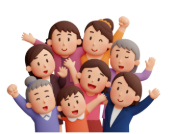
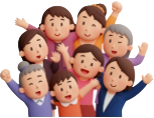
fix : 수양회 관련 정보 수정

diff --git a/components/form/Step3Companions.tsx b/components/form/Step3Companions.tsx
@@ -154,27 +154,39 @@ function CompanionCard({
       )}
 
       {/* 숙박 여부 */}
-      <FieldGroup
-        label="숙박 여부"
-        hint={isLodgingFixed ? '해당 부서는 숙박이 기본 포함됩니다.' : undefined}
-      >
-        {isLodgingFixed ? (
-          <div className="form-input bg-slate-50 text-slate-500 text-sm">
-            숙박 (기본 고정)
+      <FieldGroup label="숙박 여부">
+        {isLodgingFixed && (
+          <div className="mb-2 rounded-lg border border-red-200 bg-red-50 px-3 py-2 text-sm font-medium text-red-600">
+            해당 부서는 숙박이 기본 포함됩니다.
           </div>
-        ) : (
-          <ToggleGroup
-            cols={2}
-            value={companion.lodging}
-            onChange={(v) => update('lodging', v)}
-            options={[
-              { label: '비숙박', value: 'NON_LODGING', description: '당일 귀가' },
-              { label: '숙박', value: 'LODGING', description: '1박 2일' },
-            ]}
-            disabled={companion.registrationType === 'DAILY'}
-          />
         )}
+        <ToggleGroup
+          cols={2}
+          value={companion.lodging}
+          onChange={(v) => update('lodging', v)}
+          options={[
+            { label: '비숙박', value: 'NON_LODGING', description: '당일 귀가' },
+            { label: '숙박', value: 'LODGING', description: '1박 2일' },
+          ]}
+          disabled={companion.registrationType === 'DAILY'}
+        />
       </FieldGroup>
+
+      {/* UCM 2007년생 이하 체크 */}
+      {dept === 'ADULT_B' && companion.department === '대학부(UCM)' && (
+        <label className="flex items-start gap-3 rounded-xl border border-amber-200 bg-amber-50 px-4 py-3 cursor-pointer">
+          <input
+            type="checkbox"
+            className="mt-0.5 h-4 w-4 accent-amber-500 shrink-0"
+            checked={!!companion.isYoungUCM}
+            onChange={(e) => update('isYoungUCM', e.target.checked)}
+          />
+          <div>
+            <p className="text-sm font-semibold text-amber-800">2007년생 이하입니다</p>
+            <p className="text-xs text-amber-600 mt-0.5">체크 시 다자녀 할인 자녀 인원에 포함됩니다</p>
+          </div>
+        </label>
+      )}
     </div>
   );
 }
@@ -287,9 +299,12 @@ export default function Step3Companions({
         <InfoBox type="info">
           <p className="font-semibold">다자녀 할인 안내</p>
           <ul className="mt-1 flex flex-col gap-1 text-sm">
-            <li>① YCM 이하 자녀(중고등·초등·유치·영아) <strong>3명 이상</strong> → 부모+자녀 전원 <strong>10% 할인</strong></li>
-            <li>② YCM 이하 자녀(중고등·초등·유치·영아) <strong>4명 이상</strong> → 부모+자녀 전원 <strong>15% 할인</strong></li>
+            <li>① 자녀 <strong>3명 이상</strong> → 부모+자녀 전원 <strong>10% 할인</strong></li>
+            <li>② 자녀 <strong>4명 이상</strong> → 부모+자녀 전원 <strong>15% 할인</strong></li>
           </ul>
+          <p className="mt-2 text-xs text-blue-500">
+            * 자녀 기준: YCM(중고등)·초등·유치·영아부, UCM 중 <strong>2007년생 이하</strong>
+          </p>
         </InfoBox>
       )}
 

diff --git a/components/form/Step2Info.tsx b/components/form/Step2Info.tsx
@@ -233,33 +233,43 @@ export default function Step2Info({
       )}
 
       {/* 숙박 여부 */}
-      <FieldGroup
-        label="숙박 여부"
-        hint={
-          isLodgingFixed ? "해당 부서는 숙박이 기본 포함됩니다." : undefined
-        }
-      >
-        {isLodgingFixed ? (
-          <div className="form-input bg-slate-50 text-slate-500 text-sm">
-            숙박 (기본 고정)
+      <FieldGroup label="숙박 여부">
+        {isLodgingFixed && (
+          <div className="mb-2 rounded-lg border border-red-200 bg-red-50 px-3 py-2 text-sm font-medium text-red-600">
+            해당 부서는 숙박이 기본 포함됩니다.
           </div>
-        ) : (
-          <ToggleGroup
-            cols={2}
-            value={value.lodging}
-            onChange={(v) => update("lodging", v)}
-            options={[
-              {
-                label: "비숙박",
-                value: "NON_LODGING",
-                description: "당일 귀가",
-              },
-              { label: "숙박", value: "LODGING", description: "1박 2일" },
-            ]}
-            disabled={value.registrationType === "DAILY"}
-          />
         )}
+        <ToggleGroup
+          cols={2}
+          value={value.lodging}
+          onChange={(v) => update("lodging", v)}
+          options={[
+            {
+              label: "비숙박",
+              value: "NON_LODGING",
+              description: "당일 귀가",
+            },
+            { label: "숙박", value: "LODGING", description: "1박 2일" },
+          ]}
+          disabled={value.registrationType === "DAILY"}
+        />
       </FieldGroup>
+
+      {/* UCM 2007년생 이하 체크 */}
+      {dept === 'ADULT_B' && value.department === '대학부(UCM)' && (
+        <label className="flex items-start gap-3 rounded-xl border border-amber-200 bg-amber-50 px-4 py-3 cursor-pointer">
+          <input
+            type="checkbox"
+            className="mt-0.5 h-4 w-4 accent-amber-500 shrink-0"
+            checked={!!value.isYoungUCM}
+            onChange={(e) => update('isYoungUCM', e.target.checked)}
+          />
+          <div>
+            <p className="text-sm font-semibold text-amber-800">2007년생 이하입니다</p>
+            <p className="text-xs text-amber-600 mt-0.5">체크 시 단체 신청 시 다자녀 할인 자녀 인원에 포함됩니다</p>
+          </div>
+        </label>
+      )}
 
       {/* 비숙박 할인 안내 */}
       {isNonLodgingDiscountEligible && value.registrationType !== "DAILY" && (

diff --git a/app/api/submit/route.ts b/app/api/submit/route.ts
@@ -35,6 +35,9 @@ function toRows(formState: FormState): string[][] {
     rep.wantsFamilyRoom ? '희망' : '',                // L 가족실
     String(repItem?.subtotal ?? 0),                   // M 금액
     groupId,                                          // N 그룹ID
+    '',                                               // O 확정 (Apps Script 관리)
+    '',                                               // P 입금확인 (Apps Script 관리)
+    rep.isYoungUCM ? 'Y' : '',                        // Q UCM할인
   ]);
 
   // 일행 행
@@ -55,6 +58,9 @@ function toRows(formState: FormState): string[][] {
       '',                                             // 가족실 해당 없음
       String(item?.subtotal ?? 0),
       groupId,
+      '',                                             // O 확정
+      '',                                             // P 입금확인
+      c.isYoungUCM ? 'Y' : '',                        // Q UCM할인
     ]);
   });
 

diff --git a/app/page.tsx b/app/page.tsx
@@ -314,7 +314,6 @@ export default function HomePage() {
             <div>
               <div className="flex items-center gap-2 mb-3">
                 <p className="text-xs font-semibold text-slate-400 uppercase tracking-wide">다자녀 할인</p>
-                <span className="rounded-full bg-slate-100 px-2.5 py-0.5 text-xs font-medium text-slate-500">13개월~07년생</span>
               </div>
               <div className="flex flex-col gap-2">
                 {[
@@ -328,6 +327,9 @@ export default function HomePage() {
                   </div>
                 ))}
               </div>
+              <p className="mt-2 text-xs text-slate-400">
+                * 자녀 기준: YCM(중고등)·초등·유치·영아부, <span className="font-medium text-slate-500">UCM 중 2007년생 이하</span> 포함
+              </p>
             </div>
             </div>
             )}

diff --git a/lib/calculations.ts b/lib/calculations.ts
@@ -25,7 +25,12 @@ function nonLodgingDiscount(): number {
 function multiChildRate(companions: AttendeeForm[]): number {
   const childCount = companions.filter((c) => {
     const code = deptCode(c.department as string);
-    return code && MULTI_CHILD_DISCOUNT.eligibleChildDepts.includes(code);
+    if (!code) return false;
+    // YCM 이하 부서는 기본 대상
+    if (MULTI_CHILD_DISCOUNT.eligibleChildDepts.includes(code)) return true;
+    // UCM(ADULT_B) 중 2007년생 이하 체크한 경우도 포함
+    if (code === 'ADULT_B' && c.isYoungUCM) return true;
+    return false;
   }).length;
 
   for (const tier of MULTI_CHILD_DISCOUNT.tiers) {

diff --git a/lib/types.ts b/lib/types.ts
@@ -11,6 +11,7 @@ export interface AttendeeForm {
   dailyDate?: '2026-07-25' | '2026-07-26';
   lodging: LodgingType;
   isRepresentative: boolean;
+  isYoungUCM?: boolean; // UCM 중 2007년생 이하 → 다자녀 할인 자녀로 카운트
 }
 
 export interface RepresentativeForm {
@@ -22,6 +23,7 @@ export interface RepresentativeForm {
   dailyDate?: '2026-07-25' | '2026-07-26';
   lodging: LodgingType;
   wantsFamilyRoom: boolean;   // 가족실 희망 (숙박인 경우만)
+  isYoungUCM?: boolean;       // UCM 중 2007년생 이하 → 다자녀 할인 자녀로 카운트
 }
 
 export interface FormState {
